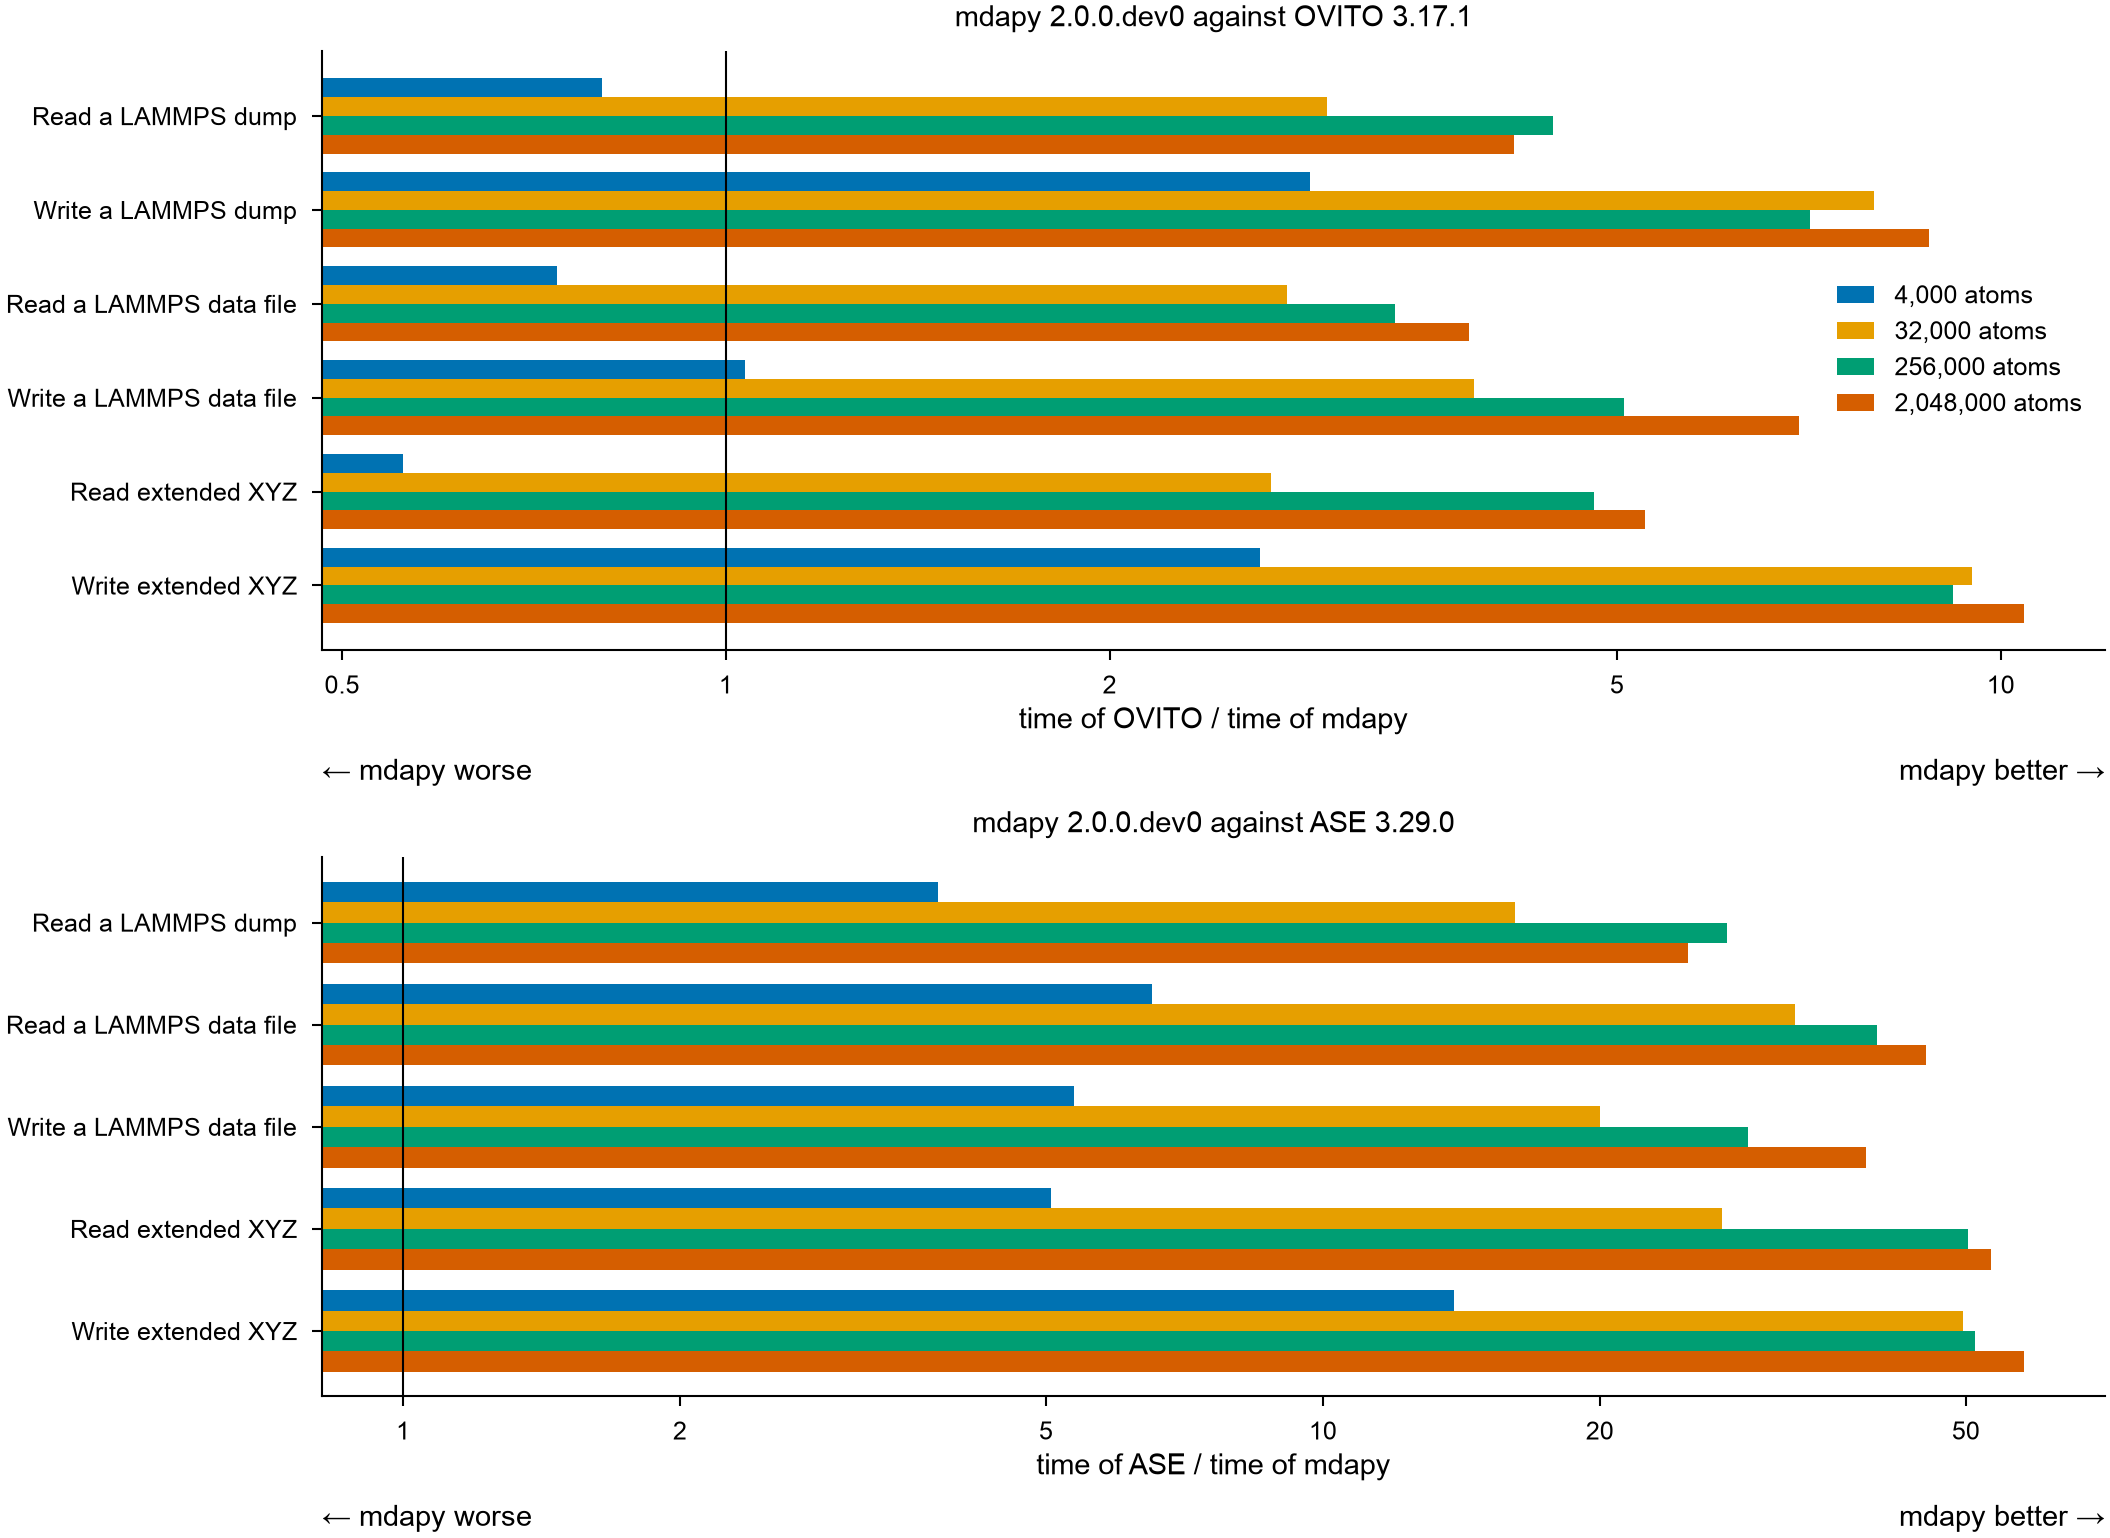
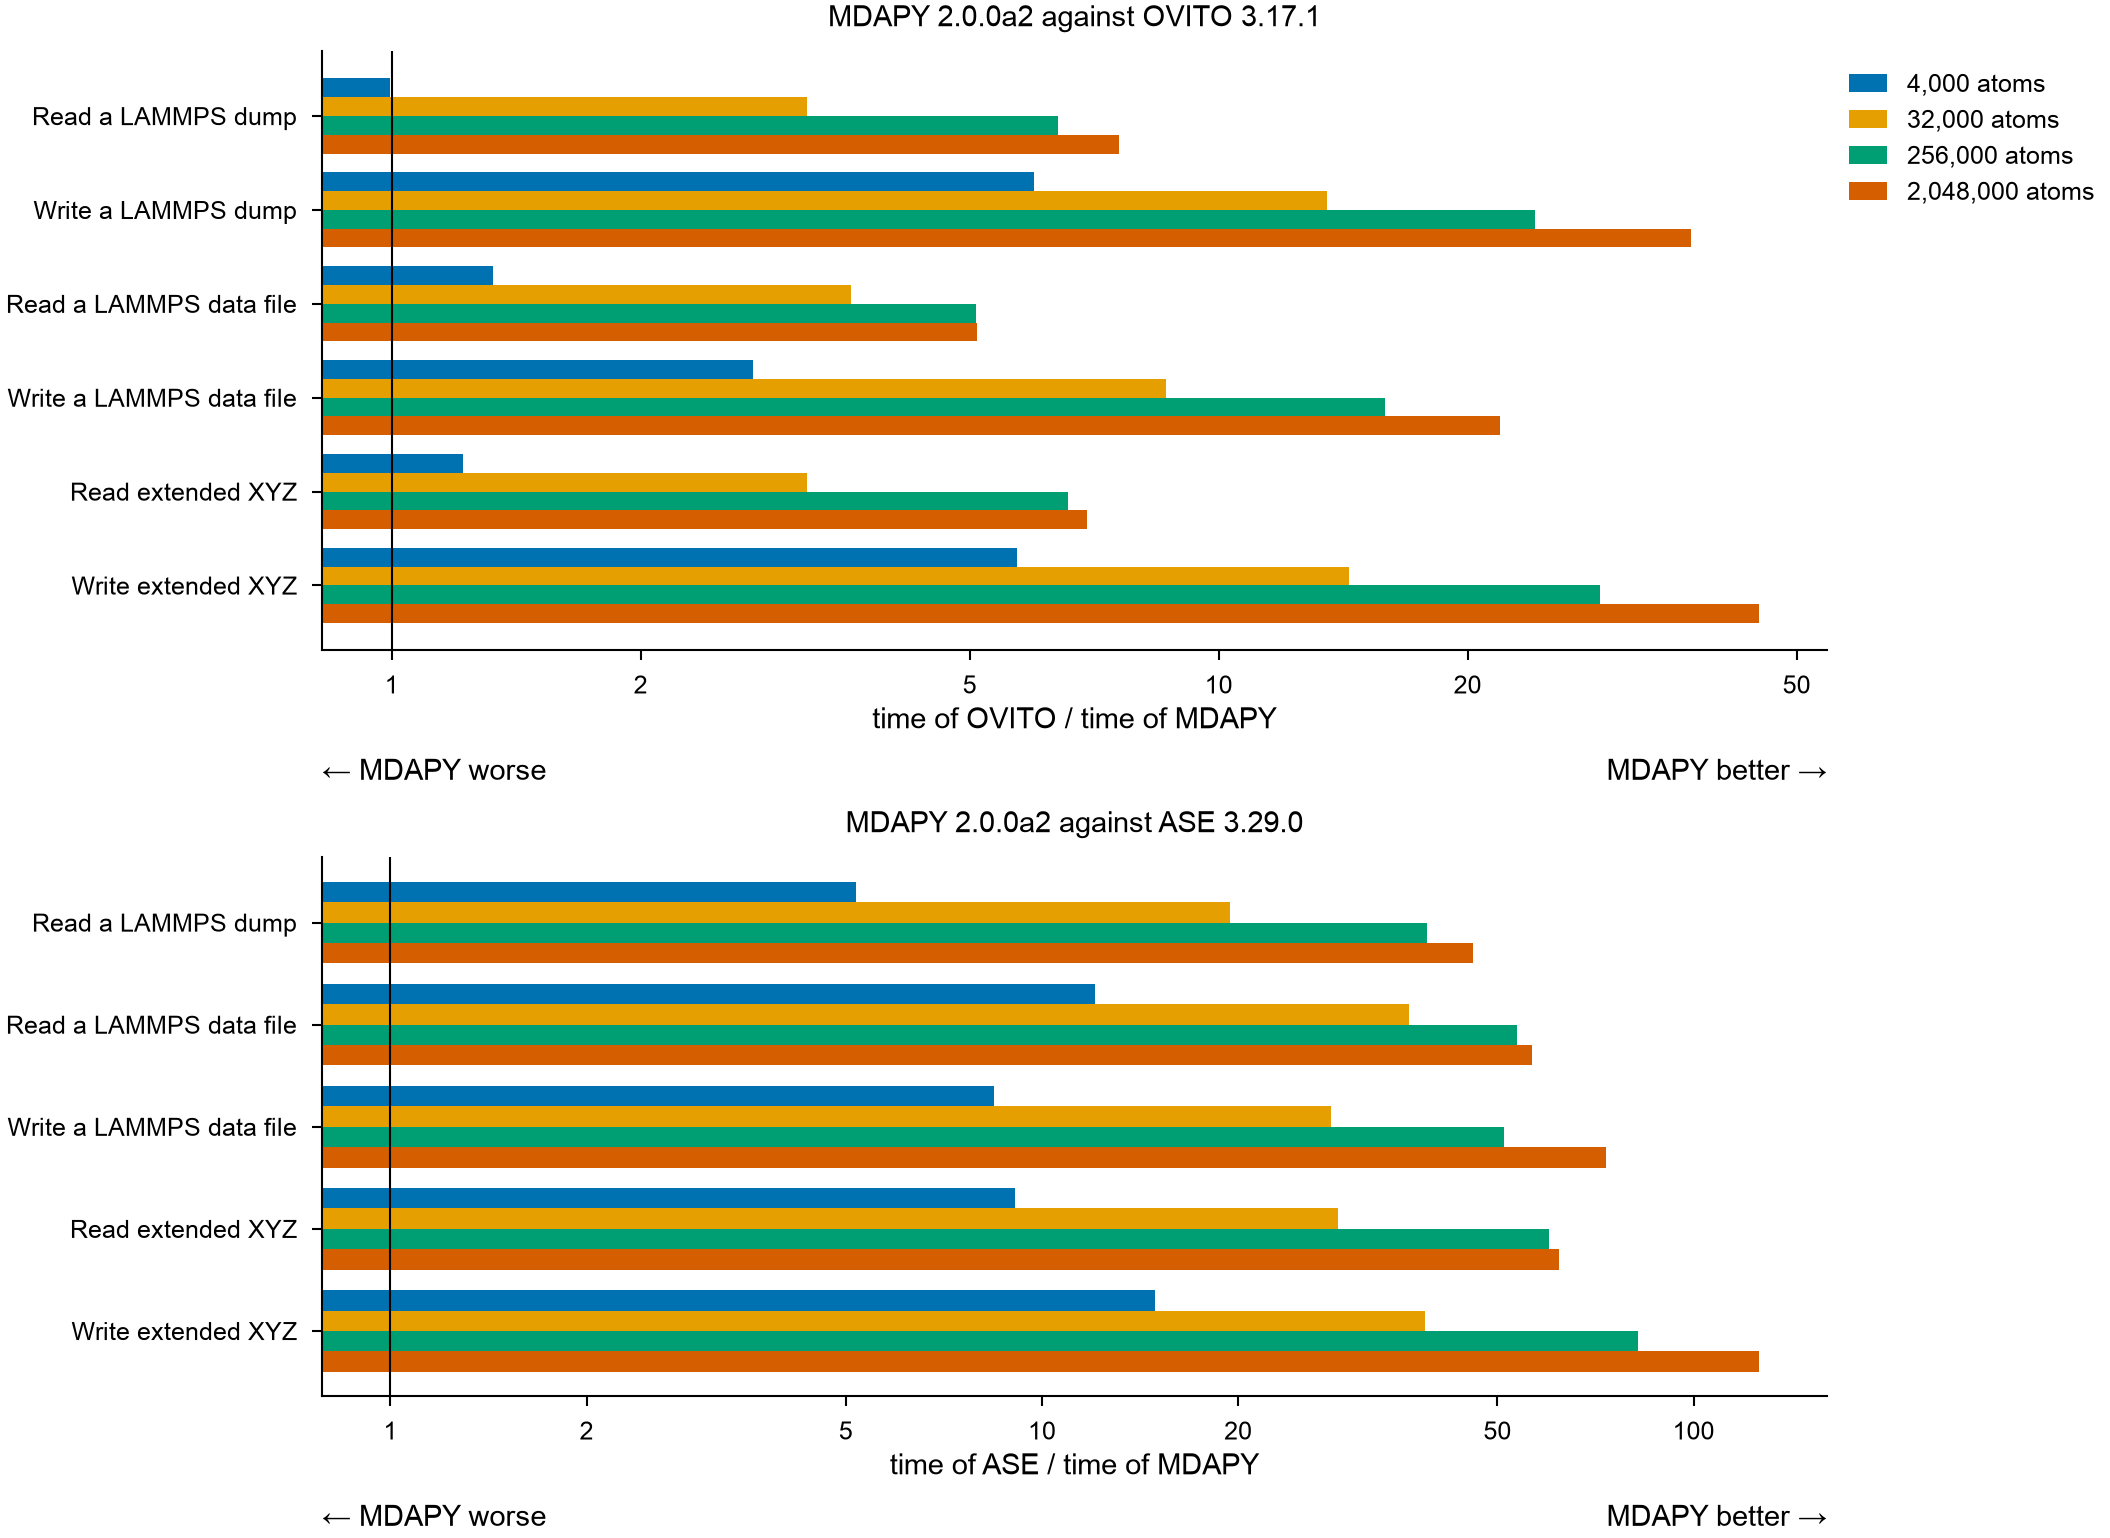
Reading and writing files measured on the faster kernels with 10 threads on an Apple M5; each performance page says which machine it runs on

diff --git a/benchmarks/comparison.py b/benchmarks/comparison.py
@@ -1660,6 +1660,11 @@ def outcome(side: dict | None) -> str:
     return "differs" if side.get("agree") is False else "?"
 
 
+def seconds(value: float) -> str:
+    """A time as a cell of a table, with four decimals when it is small."""
+    return f"{value:.4f}" if value < 0.01 else f"{value:.3f}"
+
+
 def table(entries: list[dict]) -> str:
     """The results as Markdown tables, one per program, every case at every
     size: the time of each program, how many times faster mdapy is, and the
@@ -1682,7 +1687,7 @@ def table(entries: list[dict]) -> str:
                 ours = best(entry.get("mdapy", {}))
                 theirs = best(entry.get(program, {}))
                 cells = [titles[case], f"{entry['atoms']:,d}"]
-                cells.append(f"{ours:.3f}" if ours is not None else "")
+                cells.append(seconds(ours) if ours is not None else "")
                 if theirs is None:
                     check = entry["check"][program]
                     why = outcome(
@@ -1696,7 +1701,7 @@ def table(entries: list[dict]) -> str:
                     ]
                 else:
                     cells += [
-                        f"{theirs:.3f}",
+                        seconds(theirs),
                         f"{theirs / ours:.2f}",
                         f"{extra(entry['mdapy']):.0f}",
                         f"{extra(entry[program]):.0f}",

diff --git a/docs/performance/files.md b/docs/performance/files.md
@@ -8,23 +8,25 @@ as the system.
 
 ## Results
 
-A node of the Triton cluster of Aalto University, alone for the run: two
-Intel Xeon Gold 6248 (40 cores, two NUMA nodes), 191 GB, Linux. Python 3.13,
-MDAPY 2.0.0.dev0 built with GCC 12.3, OVITO 3.17.1 and ASE 3.29.0 from pip.
+An Apple M5 (10 cores: 4 performance, 6 efficiency), 24 GB, macOS 27, with an
+editor and a browser open. Python 3.13, MDAPY 2.0.0a2 in development built with
+Apple clang 21, OVITO 3.17.1 and ASE 3.29.0 from pip. The
+[analyses](comparison.md) run on another machine, so their times do not compare
+with these.
 
 ![Time of OVITO and of ASE over the time of MDAPY for each case and size](images/files.png)
 
 ### What they show
 
-- **OVITO**: from 32 000 atoms on, MDAPY reads the three formats 2.7 to
-  5.3 times faster and writes them 3.9 to 10.4 times faster. At 4 000 atoms
-  OVITO reads faster, in 1.0 to 1.4 ms against 1.3 to 2.2 ms, and MDAPY
-  still writes 1.0 to 2.9 times faster.
-- **ASE**: MDAPY reads 3.8 to 53 times faster and writes 5.4 to 58 times
-  faster. ASE reads a data file of 2 million atoms in 7.7 s and 3.8 GB of
+- **OVITO**: from 32 000 atoms on, MDAPY reads the three formats 3.2 to
+  7.6 times faster and writes them 8.6 to 45 times faster. At 4 000 atoms
+  MDAPY reads 1.0 to 1.3 times faster, in about 0.4 ms, and writes 2.7 to
+  6.0 times faster.
+- **ASE**: MDAPY reads 5.2 to 62 times faster and writes 8.4 to 126 times
+  faster. ASE reads a data file of 2 million atoms in 2.9 s and 4.0 GB of
   memory.
-- **2 million atoms** take MDAPY 0.08 to 0.17 s to read in each format, and
-  0.11 to 0.16 s to write with every digit.
+- **2 million atoms** take MDAPY 0.02 to 0.05 s to read in each format, and
+  0.02 to 0.04 s to write with every digit.
 
 ### Times and memory
 
@@ -34,57 +36,57 @@ its peak before the timings.
 
 #### OVITO
 
-| Case | Atoms | MDAPY 2.0.0.dev0 (s) | OVITO 3.17.1 (s) | OVITO / MDAPY | MDAPY (MB) | OVITO (MB) |
+| Case | Atoms | MDAPY 2.0.0a2 (s) | OVITO 3.17.1 (s) | OVITO / MDAPY | MDAPY (MB) | OVITO (MB) |
 |---|---:|---:|---:|---:|---:|---:|
-| Read a LAMMPS dump | 4,000 | 0.001 | 0.001 | 0.80 | 0 | 1 |
-| Read a LAMMPS dump | 32,000 | 0.002 | 0.007 | 2.96 | 2 | 5 |
-| Read a LAMMPS dump | 256,000 | 0.012 | 0.054 | 4.45 | 3 | 7 |
-| Read a LAMMPS dump | 2,048,000 | 0.107 | 0.446 | 4.15 | 207 | 141 |
-| Write a LAMMPS dump | 4,000 | 0.001 | 0.002 | 2.87 | 0 | 0 |
-| Write a LAMMPS dump | 32,000 | 0.002 | 0.018 | 7.95 | 3 | 0 |
-| Write a LAMMPS dump | 256,000 | 0.020 | 0.143 | 7.09 | 36 | 0 |
-| Write a LAMMPS dump | 2,048,000 | 0.128 | 1.126 | 8.79 | 30 | 0 |
-| Read a LAMMPS data file | 4,000 | 0.002 | 0.002 | 0.74 | 0 | 0 |
-| Read a LAMMPS data file | 32,000 | 0.004 | 0.010 | 2.76 | 2 | 4 |
-| Read a LAMMPS data file | 256,000 | 0.024 | 0.079 | 3.35 | 9 | 4 |
-| Read a LAMMPS data file | 2,048,000 | 0.171 | 0.653 | 3.82 | 248 | 69 |
-| Write a LAMMPS data file | 4,000 | 0.002 | 0.002 | 1.04 | 0 | 0 |
-| Write a LAMMPS data file | 32,000 | 0.005 | 0.019 | 3.86 | 3 | 0 |
-| Write a LAMMPS data file | 256,000 | 0.028 | 0.142 | 5.06 | 37 | 0 |
-| Write a LAMMPS data file | 2,048,000 | 0.164 | 1.143 | 6.95 | 150 | 0 |
-| Read extended XYZ | 4,000 | 0.002 | 0.001 | 0.56 | 0 | 0 |
-| Read extended XYZ | 32,000 | 0.003 | 0.007 | 2.68 | 2 | 3 |
-| Read extended XYZ | 256,000 | 0.011 | 0.053 | 4.80 | 7 | 0 |
-| Read extended XYZ | 2,048,000 | 0.084 | 0.443 | 5.26 | 130 | 3 |
-| Write extended XYZ | 4,000 | 0.001 | 0.003 | 2.62 | 0 | 0 |
-| Write extended XYZ | 32,000 | 0.002 | 0.020 | 9.49 | 2 | 0 |
-| Write extended XYZ | 256,000 | 0.016 | 0.150 | 9.17 | 22 | 0 |
-| Write extended XYZ | 2,048,000 | 0.114 | 1.186 | 10.43 | 0 | 0 |
+| Read a LAMMPS dump | 4,000 | 0.0004 | 0.0004 | 1.00 | 0 | 1 |
+| Read a LAMMPS dump | 32,000 | 0.0009 | 0.0028 | 3.18 | 4 | 9 |
+| Read a LAMMPS dump | 256,000 | 0.0034 | 0.022 | 6.39 | 51 | 47 |
+| Read a LAMMPS dump | 2,048,000 | 0.023 | 0.175 | 7.58 | 213 | 127 |
+| Write a LAMMPS dump | 4,000 | 0.0003 | 0.0018 | 5.97 | 0 | 0 |
+| Write a LAMMPS dump | 32,000 | 0.0010 | 0.013 | 13.52 | 4 | 0 |
+| Write a LAMMPS dump | 256,000 | 0.0044 | 0.106 | 24.12 | 24 | 0 |
+| Write a LAMMPS dump | 2,048,000 | 0.022 | 0.835 | 37.28 | 0 | 0 |
+| Read a LAMMPS data file | 4,000 | 0.0004 | 0.0006 | 1.33 | 0 | 1 |
+| Read a LAMMPS data file | 32,000 | 0.0012 | 0.0042 | 3.59 | 7 | 11 |
+| Read a LAMMPS data file | 256,000 | 0.0065 | 0.033 | 5.09 | 53 | 31 |
+| Read a LAMMPS data file | 2,048,000 | 0.051 | 0.260 | 5.11 | 278 | 85 |
+| Write a LAMMPS data file | 4,000 | 0.0007 | 0.0018 | 2.74 | 2 | 0 |
+| Write a LAMMPS data file | 32,000 | 0.0015 | 0.013 | 8.63 | 10 | 0 |
+| Write a LAMMPS data file | 256,000 | 0.0068 | 0.107 | 15.89 | 40 | 0 |
+| Write a LAMMPS data file | 2,048,000 | 0.039 | 0.846 | 21.88 | 83 | 0 |
+| Read extended XYZ | 4,000 | 0.0004 | 0.0005 | 1.22 | 0 | 1 |
+| Read extended XYZ | 32,000 | 0.0010 | 0.0030 | 3.18 | 4 | 9 |
+| Read extended XYZ | 256,000 | 0.0036 | 0.024 | 6.57 | 34 | 22 |
+| Read extended XYZ | 2,048,000 | 0.028 | 0.193 | 6.93 | 122 | 0 |
+| Write extended XYZ | 4,000 | 0.0003 | 0.0019 | 5.71 | 0 | 0 |
+| Write extended XYZ | 32,000 | 0.0010 | 0.014 | 14.37 | 4 | 0 |
+| Write extended XYZ | 256,000 | 0.0040 | 0.115 | 28.91 | 18 | 0 |
+| Write extended XYZ | 2,048,000 | 0.020 | 0.919 | 44.97 | 0 | 0 |
 
 #### ASE
 
-| Case | Atoms | MDAPY 2.0.0.dev0 (s) | ASE 3.29.0 (s) | ASE / MDAPY | MDAPY (MB) | ASE (MB) |
+| Case | Atoms | MDAPY 2.0.0a2 (s) | ASE 3.29.0 (s) | ASE / MDAPY | MDAPY (MB) | ASE (MB) |
 |---|---:|---:|---:|---:|---:|---:|
-| Read a LAMMPS dump | 4,000 | 0.001 | 0.005 | 3.81 | 0 | 0 |
-| Read a LAMMPS dump | 32,000 | 0.002 | 0.039 | 16.16 | 2 | 4 |
-| Read a LAMMPS dump | 256,000 | 0.012 | 0.332 | 27.50 | 3 | 41 |
-| Read a LAMMPS dump | 2,048,000 | 0.107 | 2.680 | 24.93 | 207 | 427 |
-| Read a LAMMPS data file | 4,000 | 0.002 | 0.013 | 6.53 | 0 | 7 |
-| Read a LAMMPS data file | 32,000 | 0.004 | 0.117 | 32.62 | 2 | 59 |
-| Read a LAMMPS data file | 256,000 | 0.024 | 0.942 | 40.06 | 9 | 469 |
-| Read a LAMMPS data file | 2,048,000 | 0.171 | 7.723 | 45.23 | 248 | 3793 |
-| Write a LAMMPS data file | 4,000 | 0.002 | 0.013 | 5.37 | 0 | 0 |
-| Write a LAMMPS data file | 32,000 | 0.005 | 0.097 | 20.03 | 3 | 1 |
-| Write a LAMMPS data file | 256,000 | 0.028 | 0.813 | 28.96 | 37 | 1 |
-| Write a LAMMPS data file | 2,048,000 | 0.164 | 6.398 | 38.90 | 150 | 0 |
-| Read extended XYZ | 4,000 | 0.002 | 0.008 | 5.07 | 0 | 1 |
-| Read extended XYZ | 32,000 | 0.003 | 0.068 | 27.17 | 2 | 8 |
-| Read extended XYZ | 256,000 | 0.011 | 0.552 | 50.28 | 7 | 56 |
-| Read extended XYZ | 2,048,000 | 0.084 | 4.474 | 53.20 | 130 | 534 |
-| Write extended XYZ | 4,000 | 0.001 | 0.013 | 13.89 | 0 | 0 |
-| Write extended XYZ | 32,000 | 0.002 | 0.102 | 49.65 | 2 | 2 |
-| Write extended XYZ | 256,000 | 0.016 | 0.838 | 51.13 | 22 | 5 |
-| Write extended XYZ | 2,048,000 | 0.114 | 6.574 | 57.82 | 0 | 0 |
+| Read a LAMMPS dump | 4,000 | 0.0004 | 0.0021 | 5.19 | 0 | 1 |
+| Read a LAMMPS dump | 32,000 | 0.0009 | 0.017 | 19.40 | 4 | 12 |
+| Read a LAMMPS dump | 256,000 | 0.0034 | 0.134 | 39.03 | 51 | 101 |
+| Read a LAMMPS dump | 2,048,000 | 0.023 | 1.061 | 45.85 | 213 | 397 |
+| Read a LAMMPS data file | 4,000 | 0.0004 | 0.0053 | 12.07 | 0 | 16 |
+| Read a LAMMPS data file | 32,000 | 0.0012 | 0.042 | 36.58 | 7 | 75 |
+| Read a LAMMPS data file | 256,000 | 0.0065 | 0.347 | 53.62 | 53 | 568 |
+| Read a LAMMPS data file | 2,048,000 | 0.051 | 2.883 | 56.59 | 278 | 4019 |
+| Write a LAMMPS data file | 4,000 | 0.0007 | 0.0056 | 8.44 | 2 | 0 |
+| Write a LAMMPS data file | 32,000 | 0.0015 | 0.043 | 27.78 | 10 | 4 |
+| Write a LAMMPS data file | 256,000 | 0.0068 | 0.346 | 51.18 | 40 | 42 |
+| Write a LAMMPS data file | 2,048,000 | 0.039 | 2.832 | 73.26 | 83 | 52 |
+| Read extended XYZ | 4,000 | 0.0004 | 0.0034 | 9.11 | 0 | 1 |
+| Read extended XYZ | 32,000 | 0.0010 | 0.027 | 28.51 | 4 | 13 |
+| Read extended XYZ | 256,000 | 0.0036 | 0.215 | 59.98 | 34 | 96 |
+| Read extended XYZ | 2,048,000 | 0.028 | 1.734 | 62.11 | 122 | 501 |
+| Write extended XYZ | 4,000 | 0.0003 | 0.0050 | 14.90 | 0 | 0 |
+| Write extended XYZ | 32,000 | 0.0010 | 0.039 | 38.73 | 4 | 3 |
+| Write extended XYZ | 256,000 | 0.0040 | 0.328 | 82.11 | 18 | 9 |
+| Write extended XYZ | 2,048,000 | 0.020 | 2.571 | 125.83 | 0 | 0 |
 
 ## Cases
 
@@ -109,7 +111,7 @@ decimals, so its extended XYZ is about a third smaller.
 
 ## How it is measured
 
-- Each program runs in a process of its own. MDAPY and OVITO have 40
+- Each program runs in a process of its own. MDAPY and OVITO have 10
   threads (`MDAPY_NUM_THREADS`, `OVITO_THREAD_COUNT`); ASE reads and writes
   in Python on one.
 - Before the timings, a separate process checks each program. Reading: the
@@ -120,8 +122,8 @@ decimals, so its extended XYZ is about a third smaller.
   not timed.
 - The file to read is written by MDAPY before the timings, so it is in the
   file cache of the operating system: the times are those of reading and
-  parsing, not of the disk. Writing goes to the local disk of the node as
-  the operating system takes it.
+  parsing, not of the disk. Writing goes to the disk of the machine as the
+  operating system takes it.
 - Each process first reads or writes a system of 500 atoms, so that loading
   libraries and starting threads are not timed, then three times the
   system; the shortest time counts.
@@ -136,7 +138,7 @@ group `files` of its cases. It needs OVITO (`pip install ovito`) and ASE
 
 ```bash
 python benchmarks/comparison.py run --group files --sizes 4000 32000 256000 2048000 \
-    --threads 40 --memory 170 --timeout 900 --output files.json   # as above
+    --threads 10 --memory 8 --timeout 1800 --output files.json   # as above
 python benchmarks/comparison.py table files.json
 python benchmarks/comparison.py plot files.json files.png
 ```

diff --git a/docs/performance/builders.md b/docs/performance/builders.md
@@ -9,7 +9,9 @@ builds the structure MDAPY builds.
 
 An Apple M5 (10 cores: 4 performance, 6 efficiency), 24 GB, macOS 27, with an
 editor and a browser open. Python 3.13, MDAPY 2.0.0a2 in development built with
-Apple clang 21, and Atomsk Beta 0.13.1 built with GFortran and OpenMP.
+Apple clang 21, and Atomsk Beta 0.13.1 built with GFortran and OpenMP. The
+[analyses](comparison.md) run on another machine, so their times do not compare
+with these.
 
 ![Time of Atomsk over the time of MDAPY for each case and size](images/builders.png)
 
@@ -31,14 +33,14 @@ the timings; that of Atomsk, a process of its own, is not counted.
 
 | Case | Atoms | MDAPY 2.0.0a2 (s) | Atomsk Beta 0.13.1 (s) | Atomsk / MDAPY | MDAPY (MB) | Atomsk (MB) |
 |---|---:|---:|---:|---:|---:|---:|
-| fcc single crystal, written as a LAMMPS data file | 4,000 | 0.001 | 0.016 | 31.96 | 0 | 0 |
-| fcc single crystal, written as a LAMMPS data file | 32,000 | 0.001 | 0.045 | 35.74 | 5 | 0 |
-| fcc single crystal, written as a LAMMPS data file | 256,000 | 0.006 | 0.209 | 33.67 | 45 | 0 |
+| fcc single crystal, written as a LAMMPS data file | 4,000 | 0.0005 | 0.016 | 31.96 | 0 | 0 |
+| fcc single crystal, written as a LAMMPS data file | 32,000 | 0.0013 | 0.045 | 35.74 | 5 | 0 |
+| fcc single crystal, written as a LAMMPS data file | 256,000 | 0.0062 | 0.209 | 33.67 | 45 | 0 |
 | fcc single crystal, written as a LAMMPS data file | 2,048,000 | 0.032 | 1.540 | 47.72 | 135 | 0 |
 | fcc single crystal, written as a LAMMPS data file | 9,841,500 | 0.139 | 7.519 | 54.13 | 443 | 0 |
-| Polycrystal of 20 grains, written as a LAMMPS data file | 3,981 | 0.001 | 0.032 | 23.89 | 0 | 0 |
-| Polycrystal of 20 grains, written as a LAMMPS data file | 31,995 | 0.002 | 0.100 | 50.67 | 9 | 0 |
-| Polycrystal of 20 grains, written as a LAMMPS data file | 255,941 | 0.009 | 0.555 | 63.27 | 78 | 0 |
+| Polycrystal of 20 grains, written as a LAMMPS data file | 3,981 | 0.0013 | 0.032 | 23.89 | 0 | 0 |
+| Polycrystal of 20 grains, written as a LAMMPS data file | 31,995 | 0.0020 | 0.100 | 50.67 | 9 | 0 |
+| Polycrystal of 20 grains, written as a LAMMPS data file | 255,941 | 0.0088 | 0.555 | 63.27 | 78 | 0 |
 | Polycrystal of 20 grains, written as a LAMMPS data file | 2,047,788 | 0.042 | 3.998 | 94.16 | 104 | 0 |
 | Polycrystal of 20 grains, written as a LAMMPS data file | 9,841,309 | 0.222 | 19.148 | 86.42 | 455 | 0 |
 

diff --git a/docs/performance/comparison.md b/docs/performance/comparison.md
@@ -10,7 +10,9 @@ where it gives the result of MDAPY, atom by atom.
 A node of the Triton cluster of Aalto University, alone for the run: two
 Intel Xeon Gold 6248 (40 cores, two NUMA nodes), 191 GB, Linux. Python 3.13,
 MDAPY 2.0.0.dev0 built with GCC 12.3, OVITO 3.17.1 and freud 3.6.1 from
-pip, each with 40 threads.
+pip, each with 40 threads. [Reading and writing files](files.md) and
+[building structures](builders.md) run on another machine, so their times do
+not compare with these.
 
 ![Time of OVITO and of freud over the time of MDAPY for each case and size](images/comparison.png)
 
